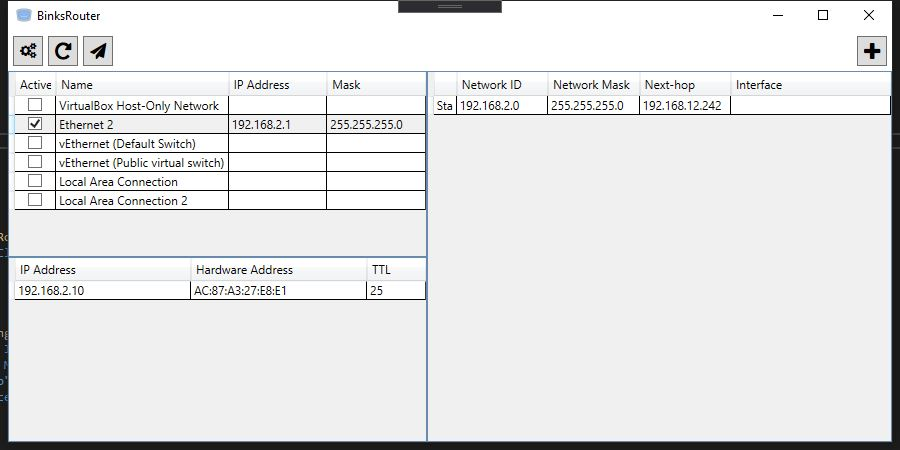
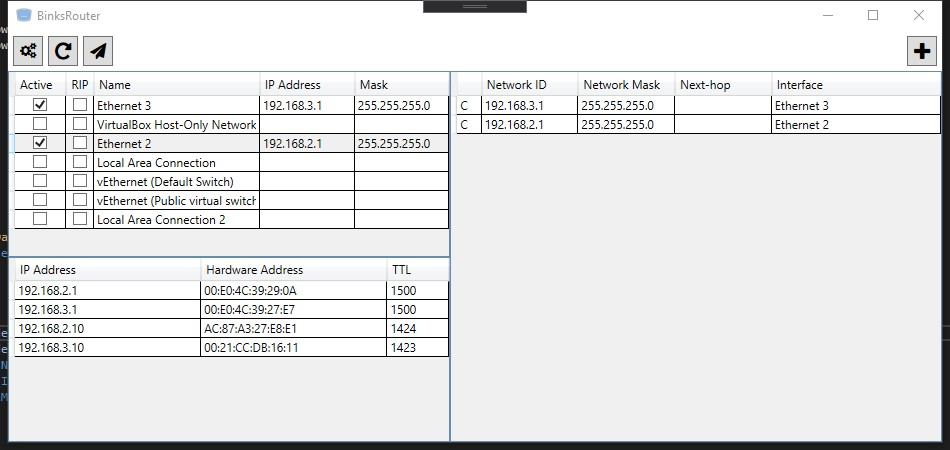
Rip enabled UI 🍁

diff --git a/BinksRouter/UI/MainWindow.xaml b/BinksRouter/UI/MainWindow.xaml
@@ -10,7 +10,7 @@
         mc:Ignorable="d"
         Title="BinksRouter" 
         Height="450" 
-        Width="900"
+        Width="950"
         WindowStartupLocation="CenterScreen"
         >
     <Grid>
@@ -91,7 +91,8 @@
                     </DataGrid.RowStyle>
 
                     <DataGrid.Columns>
-                        <DataGridCheckBoxColumn Header="Active" Binding="{Binding Path=IsActive, Mode=OneWay}" Width="10*"/>
+                        <DataGridCheckBoxColumn Header="Active" Binding="{Binding Path=IsActive, Mode=OneWay}" Width="13*"/>
+                        <DataGridCheckBoxColumn Header="RIP" Binding="{Binding Path=RipEnabled, Mode=OneWay}" Width="7*"/>
                         <DataGridTextColumn Header="Name"  Binding="{Binding Path=Name, Mode=OneWay}" Width="42*"/>
                         <DataGridTextColumn Header="IP Address"  Binding="{Binding Path=NetworkAddress, Mode=OneWay}" Width="24*"/>
                         <DataGridTextColumn Header="Mask"  Binding="{Binding Path=NetworkMask, Mode=OneWay}" Width="24*"/>

diff --git a/BinksRouter/UI/InterfaceConfiguration.xaml b/BinksRouter/UI/InterfaceConfiguration.xaml
@@ -6,7 +6,7 @@
         xmlns:local="clr-namespace:BinksRouter.UI"
         mc:Ignorable="d"
         Title="Interface Configuration" 
-        Height="230" 
+        Height="240" 
         Width="300"
         ResizeMode="NoResize"
         WindowStartupLocation="CenterScreen"
@@ -25,10 +25,17 @@
 
             <CheckBox
                 Name="IsActiveBox"
-                Margin="0,0,0,10"
                 IsThreeState="False"
             >
                 Active
+            </CheckBox>
+
+            <CheckBox
+                Name="RipEnabledBox"
+                Margin="0,0,0,10"
+                IsThreeState="False"
+            >
+                RIPv2
             </CheckBox>
 
 

diff --git a/BinksRouter/UI/InterfaceConfiguration.xaml.cs b/BinksRouter/UI/InterfaceConfiguration.xaml.cs
@@ -28,6 +28,7 @@ namespace BinksRouter.UI
             }
 
             IsActiveBox.IsChecked = _interface.IsActive;
+            RipEnabledBox.IsChecked = _interface.RipEnabled;
         }
 
         private static void InlineTry(Action action)
@@ -47,6 +48,7 @@ namespace BinksRouter.UI
             InlineTry(() => _interface.NetworkAddress = IPAddress.Parse(IpAddressBox.Text));
             InlineTry(() => _interface.NetworkMask = IPAddress.Parse(MaskBox.Text));
             if (IsActiveBox?.IsChecked != null) _interface.IsActive = (bool) IsActiveBox?.IsChecked;
+            if (RipEnabledBox?.IsChecked != null) _interface.RipEnabled = (bool) RipEnabledBox.IsChecked;
             Close();
         }
     }

diff --git a/BinksRouter/Network/Entities/Interface.cs b/BinksRouter/Network/Entities/Interface.cs
@@ -16,6 +16,7 @@ namespace BinksRouter.Network.Entities
         #region Private properties
 
         private bool _isActive;
+        private bool _ripEnabled = false;
         private string _name;
         [CanBeNull] private IPAddress _networkAddress;
         [CanBeNull] private IPAddress _networkMask;
@@ -91,6 +92,16 @@ namespace BinksRouter.Network.Entities
         }
 
         public PhysicalAddress MacAddress => _captureDevice.MacAddress;
+
+        public bool RipEnabled
+        {
+            get => _ripEnabled;
+            set
+            {
+                _ripEnabled = value;
+                NotifyPropertyChanged(nameof(RipEnabled));
+            }
+        }
 
         #endregion
 
